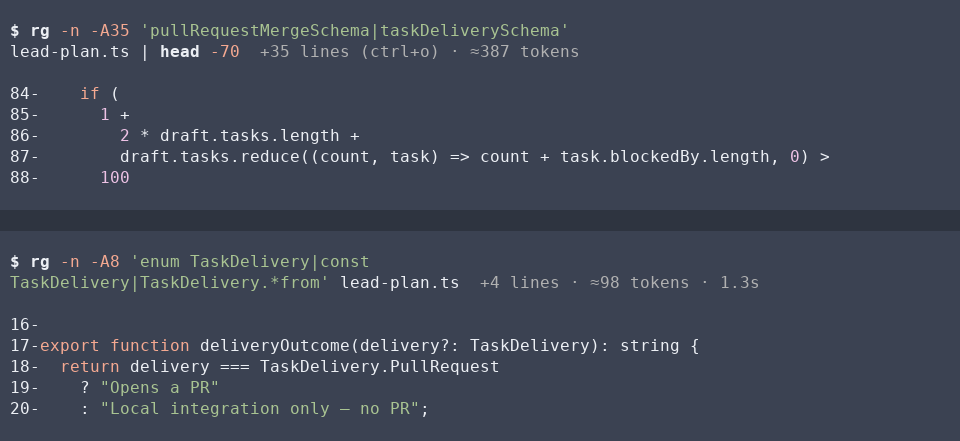
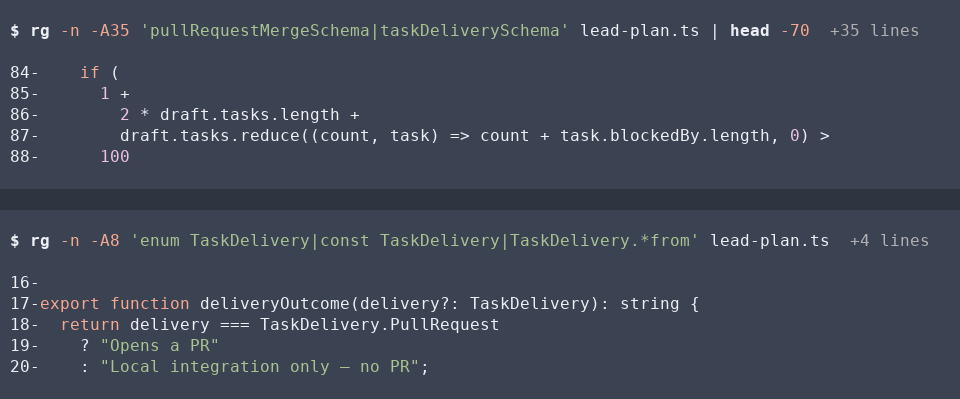
fix(rendering): preserve the full width of shell commands

diff --git a/tests/codex-patch.test.ts b/tests/codex-patch.test.ts
@@ -375,11 +375,37 @@ await test("finished shell results put size, hidden rows and slow duration on th
   assert.doesNotMatch(empty, /\+1 line|last|Truncated|Took/u);
 });
 
-await test("shell metadata always shares a physical row with the command after a resize", async (t) => {
+await test("shell metadata uses the spare cells on the naturally wrapped final command row", async (t) => {
   const { component } = await conversationFixture(t);
   const argument = "Q".repeat(44) + "界";
   const shell = component("shell_command", { command: `ls ${argument}\n` });
   shell.setArgsComplete();
+  const exactFit = visibleWidth(`$ ls ${argument}`) + 2; // the card pads one cell on each side
+  const durationOnly = exactFit + 2 + visibleWidth("1.3s");
+  const widths = [
+    160,
+    80,
+    durationOnly,
+    durationOnly - 1,
+    exactFit,
+    exactFit - 1,
+    48,
+    32,
+    16,
+    12,
+    8,
+    6,
+    160,
+  ];
+  const natural = new Map(
+    widths.map((width) => [
+      width,
+      shell
+        .render(width)
+        .map((row) => stripTerminalSequences(row).trim())
+        .filter(Boolean),
+    ]),
+  );
   shell.updateResult({
     content: [{ type: "text", text: "OUT1\nOUT2\nOUT3\nOUT4\nOUT5\nOUT6" }],
     isError: false,
@@ -387,7 +413,7 @@ await test("shell metadata always shares a physical row with the command after a
   });
   for (const expanded of [false, true]) {
     shell.setExpanded(expanded);
-    for (const width of [160, 80, 55, 48, 32, 16, 12, 8, 6, 160]) {
+    for (const width of widths) {
       const rendered = shell.render(width);
       assert.ok(rendered.every((row) => visibleWidth(row) <= width));
       const rows = rendered
@@ -399,21 +425,28 @@ await test("shell metadata always shares a physical row with the command after a
         `Missing shell command or output at ${String(width)} columns`,
       );
       const heading = rows.slice(0, output);
-      for (const row of heading)
-        assert.match(
-          row,
-          /\$|\bls\b|Q|界/u,
-          `Metadata took a row of its own at ${String(width)} columns: ${row}`,
-        );
-      const joined = heading.join("");
-      const commandEnd = joined.lastIndexOf("界") + 1;
-      assert.equal(
-        joined.slice(0, commandEnd).replaceAll(" ", ""),
-        `$ls${argument}`,
+      const expected = natural.get(width);
+      const last = heading.at(-1);
+      const expectedLast = expected?.at(-1);
+      assert.ok(
+        expected !== undefined &&
+          expectedLast !== undefined &&
+          last !== undefined,
       );
-      const metadata = joined.slice(commandEnd);
+      assert.deepEqual(
+        heading.slice(0, -1),
+        expected.slice(0, -1),
+        `The inlay changed the command's line breaks at ${String(width)} columns`,
+      );
+      assert.ok(
+        last.startsWith(expectedLast),
+        "Preserve all final-row command text",
+      );
+      const metadata = last.slice(expectedLast.length);
       if (metadata !== "") assert.match(metadata, /^ {2}\S/u);
-      if (width === 6) assert.equal(metadata, "");
+      if (width === exactFit || width === durationOnly - 1 || width === 6)
+        assert.equal(metadata, "", "Omit metadata when no whole field fits");
+      if (width === durationOnly) assert.equal(metadata, "  1.3s");
       assert.deepEqual(
         rows.slice(output),
         expanded

diff --git a/shell-preview.ts b/shell-preview.ts
@@ -4,7 +4,6 @@ import {
   Text,
   stripTerminalSequences,
   visibleWidth,
-  wrapTextWithAnsi,
 } from "@earendil-works/pi-tui";
 import { z } from "zod";
 import { inlayText } from "./code-intelligence/diff.ts";
@@ -46,25 +45,12 @@ export class ShellHeading extends Text {
     );
     const tail = rows[end]?.trimEnd();
     if (tail === undefined) return rows;
-    const tailWidth = visibleWidth(tail);
     const gap = "  ";
-    // Leave at least half a row for a long command. Short tails need less.
-    const available =
-      width - Math.min(tailWidth, Math.ceil(width / 2)) - gap.length;
+    const available = width - visibleWidth(tail) - gap.length;
+    if (available <= 0) return rows;
     const note = this.inlay(width, available);
     if (note === "") return rows;
-
-    const commandWidth = width - gap.length - visibleWidth(note);
-    const wrapped = wrapTextWithAnsi(tail, commandWidth);
-    const last = wrapped.pop();
-    if (last === undefined || stripTerminalSequences(last).trim() === "")
-      return rows;
-    return [
-      ...rows.slice(0, end),
-      ...wrapped,
-      last + gap + note,
-      ...rows.slice(end + 1),
-    ];
+    return [...rows.slice(0, end), tail + gap + note, ...rows.slice(end + 1)];
   }
 }
 

diff --git a/acceptance/shell-header.py b/acceptance/shell-header.py
@@ -15,9 +15,12 @@ import tempfile
 ui = import_module("socrates-status")
 root = Path(__file__).resolve().parents[1]
 colors = json.loads((root / "resources/theme.json").read_text())["colors"]
+# This command and its timeout occupy 57 of the 58 content cells in the narrow pane.
+full_row_command = "printf " + "x" * 34
 commands = [
     'expected=729c3fa; gh pr checks 15 --repo lanej/studio --watch --fail-fast --interval 10 > /tmp/checks.log 2>&1 && test "$expected" = "$(gh pr view 15 --json headRefOid --jq .headRefOid)"; tail -15 /tmp/checks.log',
     "gh run list --limit 15 --json databaseId --jq '.[].databaseId' | tail -15 || gh run view --log",
+    full_row_command,
 ]
 
 
@@ -69,7 +72,16 @@ console.log(session.getSessionFile());
                 terminal.contains("tokens")
                 assert "Took " not in terminal.text() and "0.2s" not in terminal.text(), terminal.text()
                 assert_style(terminal, "≈", "#b1b1b1")
-                # Both widths retain command syntax and the completed run's metadata.
+                heading = f"$ {full_row_command} (timeout 30s)"
+                terminal.contains(heading)
+                lines = [row.strip() for row in terminal.screen.display if row.strip()]
+                row = next(i for i, line in enumerate(lines) if line.startswith(heading))
+                if width == 60:
+                    assert lines[row] == heading, lines[row]
+                else:
+                    assert lines[row].startswith(heading + "  ≈") and lines[row].endswith("1.3s"), lines[row]
+                assert lines[row + 1] == "Retained fixture output; command was not executed.", lines[row:row + 3]
+                # Compound command/flag colors must survive both native layouts.
                 for word in ("gh", "tail"):
                     assert_style(terminal, word, "syntaxFunction", bold=True)
                 for word in ("--repo", "--watch", "--fail-fast", "--interval", "--json", "--jq", "--limit", "-15", "--log"):

diff --git a/README.md b/README.md
@@ -233,7 +233,7 @@ In an ordinary coding session, Studio selects the core tool names and arguments 
 
 The dialects in `model-tools/dialects/` translate model-facing arguments and results. Both `Bash` and `shell_command` call `runShell` in `model-tools/operations.ts`, so their timeouts, output, and permissions go through the same Pi shell executor after translation. Claude `Edit` uses exact text replacement. Codex `apply_patch` uses a batch operation that preflights its hunks and runs through the same shell permission hook. The patch tool is available when local read, edit, write, and shell access are all active. Custom executors, restricted workers, and snapshot reviewers retain their configured tools. Studio-specific operations such as Socrates planning and LSP navigation keep their own names across models.
 
-Shell commands appear with a `$` prompt. The hidden-line count, estimated tokens, and elapsed time sit directly after the command on the same terminal row. Narrow terminals show the fields that fit. The first folded result with room for the configured expand shortcut shows it beside the count. Completed calls show `≈N tokens`, Pi’s estimate for the tool name, original arguments, and full result returned to the model. The provider reports billed usage per model response. Elapsed time appears when a command takes at least one second.
+Shell commands appear with a `$` prompt. The hidden-line count, estimated tokens, and elapsed time sit directly after the command on the same terminal row. Commands wrap at the full terminal width. Only fields that fit in the space left on the final command row appear. The first folded result with room for the configured expand shortcut shows it beside the count. Completed calls show `≈N tokens`, Pi’s estimate for the tool name, original arguments, and full result returned to the model. The provider reports billed usage per model response. Elapsed time appears when a command takes at least one second.
 
 File edits show the name the model called, including Claude `Edit` and Codex `apply_patch`. Both use the same renderer for numbered diffs, surrounding lines, and syntax highlighting. When available, the view adds the enclosing declaration, highlights individual token replacements, and displays diagnostics on the affected lines. A multi-file patch shows one `apply_patch` heading. Each file has a path, a brief reason for the change, and its own diff. A newly created file gets one `+` before its name and ordinary line numbers throughout. The transcript retains the diff and syntax context from execution, so later edits to the checkout do not change an earlier result.
 
